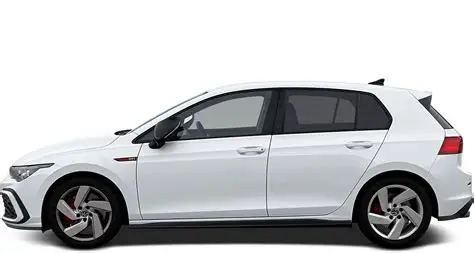
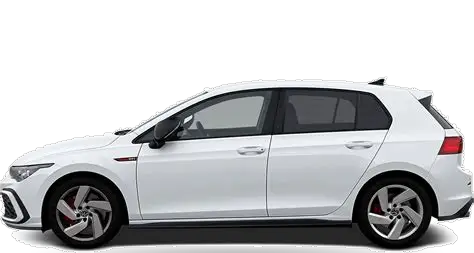
Lift the vehicles off their backdrops
Two of the three photographs carried their studio ground with them: the
Fortuner an opaque grey rectangle, the sedan a white one. Against an
off-white card both read as a pasted-in box, and next to the minibus —
which was already transparent — as three photographs from three sites.

scripts/cutout.py does the cut. Studio vehicle photography is the awkward
case for a background remover, because the backdrop is a light grey sweep
and most press cars are white, so the two overlap in brightness and a
threshold punches holes in the bodywork. What separates them is
connectivity: the backdrop reaches every border pixel and the car does
not. So the fill is stopped by edges rather than by colour, which still
holds along the roofline where white meets grey at ten levels of contrast.

Three things that cost an attempt each, all written down in the script.
The fill has to be held to light pixels or it drains through the contact
shadow into the tyres, which come out as grey ghosts. The dark void under
the sills is the underbody, not the floor, and belongs to the car. And
the darkest sliver of floor shadow survives as a ragged streak welded to
the tyres, so anything a few pixels thick is opened away and the surviving
core dilated back to return the wipers and roof rails.

A --white mode for a subject already cut onto pure white, which is a
different problem: no backdrop tone to find and no edge to follow, so it
keys on white instead. The edge-following fill took half the sedan's
[…]

diff --git a/scripts/cutout.py b/scripts/cutout.py
@@ -1,0 +1,168 @@
+#!/usr/bin/env python3
+"""
+Lift a vehicle off a flat studio backdrop.
+
+Studio vehicle photography is the awkward case for a background remover: the
+backdrop is a light grey sweep and most press cars are white, so the two
+overlap in brightness and a plain threshold punches holes in the bodywork.
+What separates them is connectivity — the backdrop reaches every border pixel
+and the car does not — so the fill is stopped by edges rather than by colour,
+which still holds along the roofline where white meets grey at ten levels of
+contrast.
+
+The fill is also held to light pixels. Without that it drains out of the
+backdrop, through the soft contact shadow, and into the black of the tyres,
+which then come out as grey ghosts.
+
+The dark void under the sills is the underbody, not the floor, and belongs to
+the car — filling the mask's holes keeps it, along with the gaps between the
+wheel spokes.
+
+Needs pillow, numpy and scipy, which are not project dependencies — this runs
+by hand when a photograph arrives, not in the build:
+
+    pip install pillow numpy scipy
+    python3 scripts/cutout.py new-photo.jpg public/vehicles/suv-4x4.webp --shadow
+
+Then look at the result on a dark ground at full size before committing it.
+"""
+import argparse
+
+import numpy as np
+from PIL import Image, ImageFilter
+from scipy import ndimage
+
+
+def grad_of(im: Image.Image) -> np.ndarray:
+    blurred = im.filter(ImageFilter.GaussianBlur(1)).convert("L")
+    gy, gx = np.gradient(np.asarray(blurred).astype(float))
+    return np.hypot(gx, gy)
+
+
+def cut(src: str, edge: float, light: float, mode: str):
+    im = Image.open(src).convert("RGB")
+    rgb = np.asarray(im).astype(float)
+    lum = rgb.mean(2)
+
+    grad = grad_of(im)
+
+    if mode == "white":
+        # A subject cut out onto pure white already, which is a different
+        # problem: there is no backdrop tone to find, and the edge-following
+        # fill has nothing to follow — on the 474px sedan it wandered straight
+        # through the bonnet and took half of it off. Keying on white instead
+        # keeps the whole car, because bodywork is shaded and almost never
+        # reaches 250, while the ground behind it is a flat 255.
+        passable = lum >= light
+    else:
+        passable = (grad <= edge) & (lum > light)
+    labels, _ = ndimage.label(passable)
+    rim = np.concatenate([labels[0], labels[-1], labels[:, 0], labels[:, -1]])
+    background = np.isin(labels, np.unique(rim[rim > 0]))
+
+    subject = ndimage.binary_fill_holes(~background)
+
+    # Specks of backdrop the edge threshold isolated are not subjects.
+    parts, count = ndimage.label(subject)
+    if count > 1:
+        sizes = ndimage.sum(subject, parts, range(1, count + 1))
+        subject = parts == (int(np.argmax(sizes)) + 1)
+
+    # The darkest sliver of the floor shadow is below the light threshold, so
+    # it survives as a ragged streak welded to the tyres — a hard edge where
+    # the photograph has a soft one, which is the tell that something was cut
+    # out badly. Opening severs anything only a few pixels thick; dilating the
+    # surviving core back into the mask returns the wipers, roof rails and
+    # aerial that the same opening would otherwise shave off.
+    core = ndimage.binary_opening(subject, ndimage.generate_binary_structure(2, 1), iterations=3)
+    parts, count = ndimage.label(core)
+    if count > 1:
+        sizes = ndimage.sum(core, parts, range(1, count + 1))
+        core = parts == (int(np.argmax(sizes)) + 1)
+    if core.any():
+        near = ndimage.binary_dilation(core, ndimage.generate_binary_structure(2, 2), iterations=6)
+        subject = subject & near
+
+    return im, rgb, subject
+
+
+def main() -> None:
+    ap = argparse.ArgumentParser()
+    ap.add_argument("src")
+    ap.add_argument("dst")
+    ap.add_argument(
+        "--mode",
+        choices=("sweep", "white"),
+        default="sweep",
+        help="sweep: a grey studio backdrop. white: already cut onto pure white.",
+    )
+    ap.add_argument("--edge", type=float, default=4.0)
+    ap.add_argument(
+        "--light",
+        type=float,
+        default=None,
+        help="Backdrop is lighter than this. Default 55 for sweep, 250 for white.",
+    )
+    ap.add_argument(
+        "--shadow",
+        action="store_true",
+        help="Add a soft ground shadow under the subject.",
+    )
+    args = ap.parse_args()
+    light = args.light if args.light is not None else (250.0 if args.mode == "white" else 55.0)
+
+    im, rgb, subject = cut(args.src, args.edge, light, args.mode)
+    h, w = subject.shape
+
+    alpha = subject.astype(float)
+
+    # The pixel on the silhouette is a blend of car and backdrop, so leaving it
+    # opaque leaves a pale fringe against a dark page. Pull the hard edge in by
+    # one pixel, then feather what is left.
+    rim = subject & ~ndimage.binary_erosion(subject, iterations=1)
+    alpha[rim] = 0.8
+    alpha = np.clip(ndimage.gaussian_filter(alpha, 0.6), 0, 1)
+
+    out = rgb.copy()
+
+    if args.shadow:
+        # A drawn shadow rather than the one in the photograph: the originals
+        # disagree about how hard their floor shadow is, and three cars in a
+        # row with three different grounds reads as three different sites.
+        ys, xs = np.nonzero(subject)
+        floor, left, right = ys.max(), xs.min(), xs.max()
+        cx, half = (left + right) / 2, (right - left) / 2
+
+        yy, xx = np.mgrid[0:h, 0:w]
+        ellipse = ((xx - cx) / (half * 0.92)) ** 2 + (
+            (yy - floor) / max(h * 0.035, 6)
+        ) ** 2
+        cast = np.clip(1 - ellipse, 0, 1) ** 1.6 * 0.30
+        cast = ndimage.gaussian_filter(cast, max(h * 0.012, 3))
+        cast[subject] = 0
+
+        out = np.where(subject[..., None], out, 25.0)
+        alpha = np.maximum(alpha, cast)
+
+    rgba = np.dstack([out, np.clip(alpha, 0, 1) * 255]).astype(np.uint8)
+    Image.fromarray(rgba, "RGBA").save(args.dst)
+
+    opaque = (alpha > 0.99).mean() * 100
+    clear = (alpha < 0.01).mean() * 100
+    print(f"{args.dst}: {opaque:.1f}% opaque, {clear:.1f}% clear, {w}x{h}")
+
+    # Two things this cannot do, said plainly rather than guessed at.
+    #
+    # It needs the subject to differ in tone from its ground. A white car on a
+    # white sweep gives the fill almost nothing to stop at and it eats into the
+    # bodywork — on the 474px sedan it took half the bonnet off. Several
+    # attempts at scoring that automatically all passed the ruined cut, so
+    # there is no score here: look at the result, on a dark ground, at full
+    # size, where a bitten panel or a pale fringe is obvious and a thumbnail
+    # hides both.
+    if min(w, h) < 600:
+        print(f"  WARNING: {w}x{h} is small for a card that renders near 700px wide.")
+
+
+if __name__ == "__main__":
+    main()
